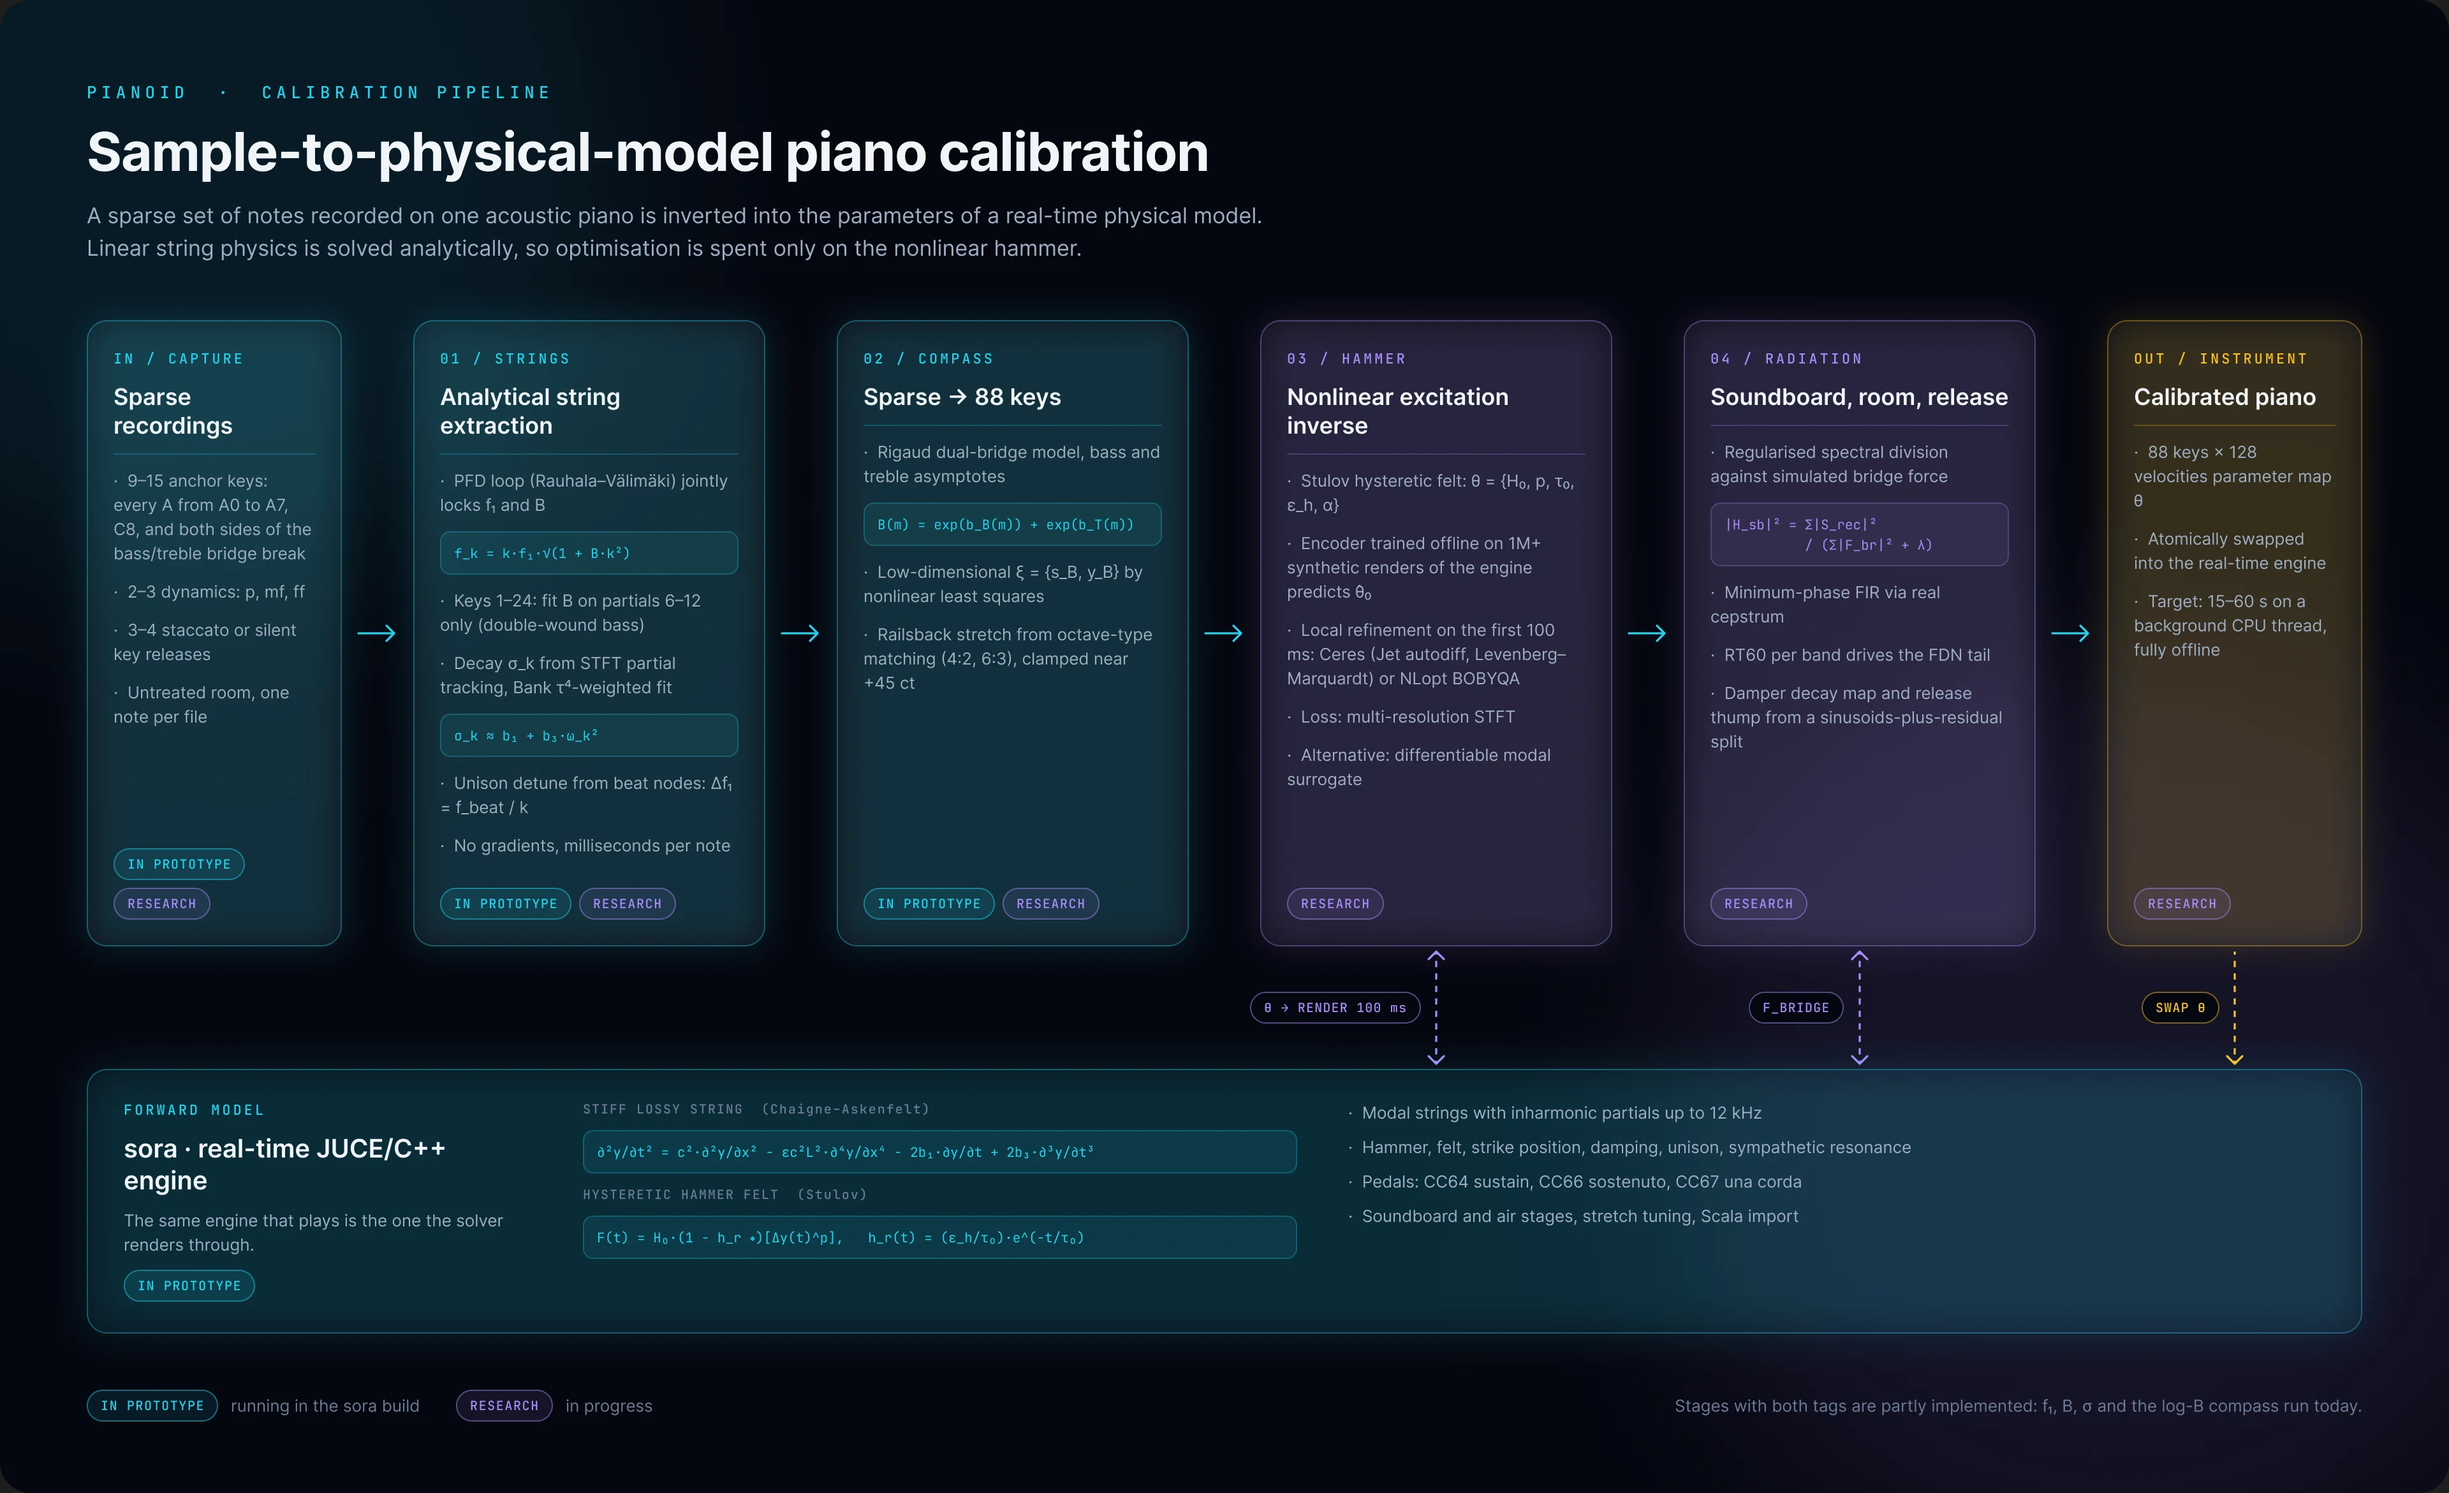
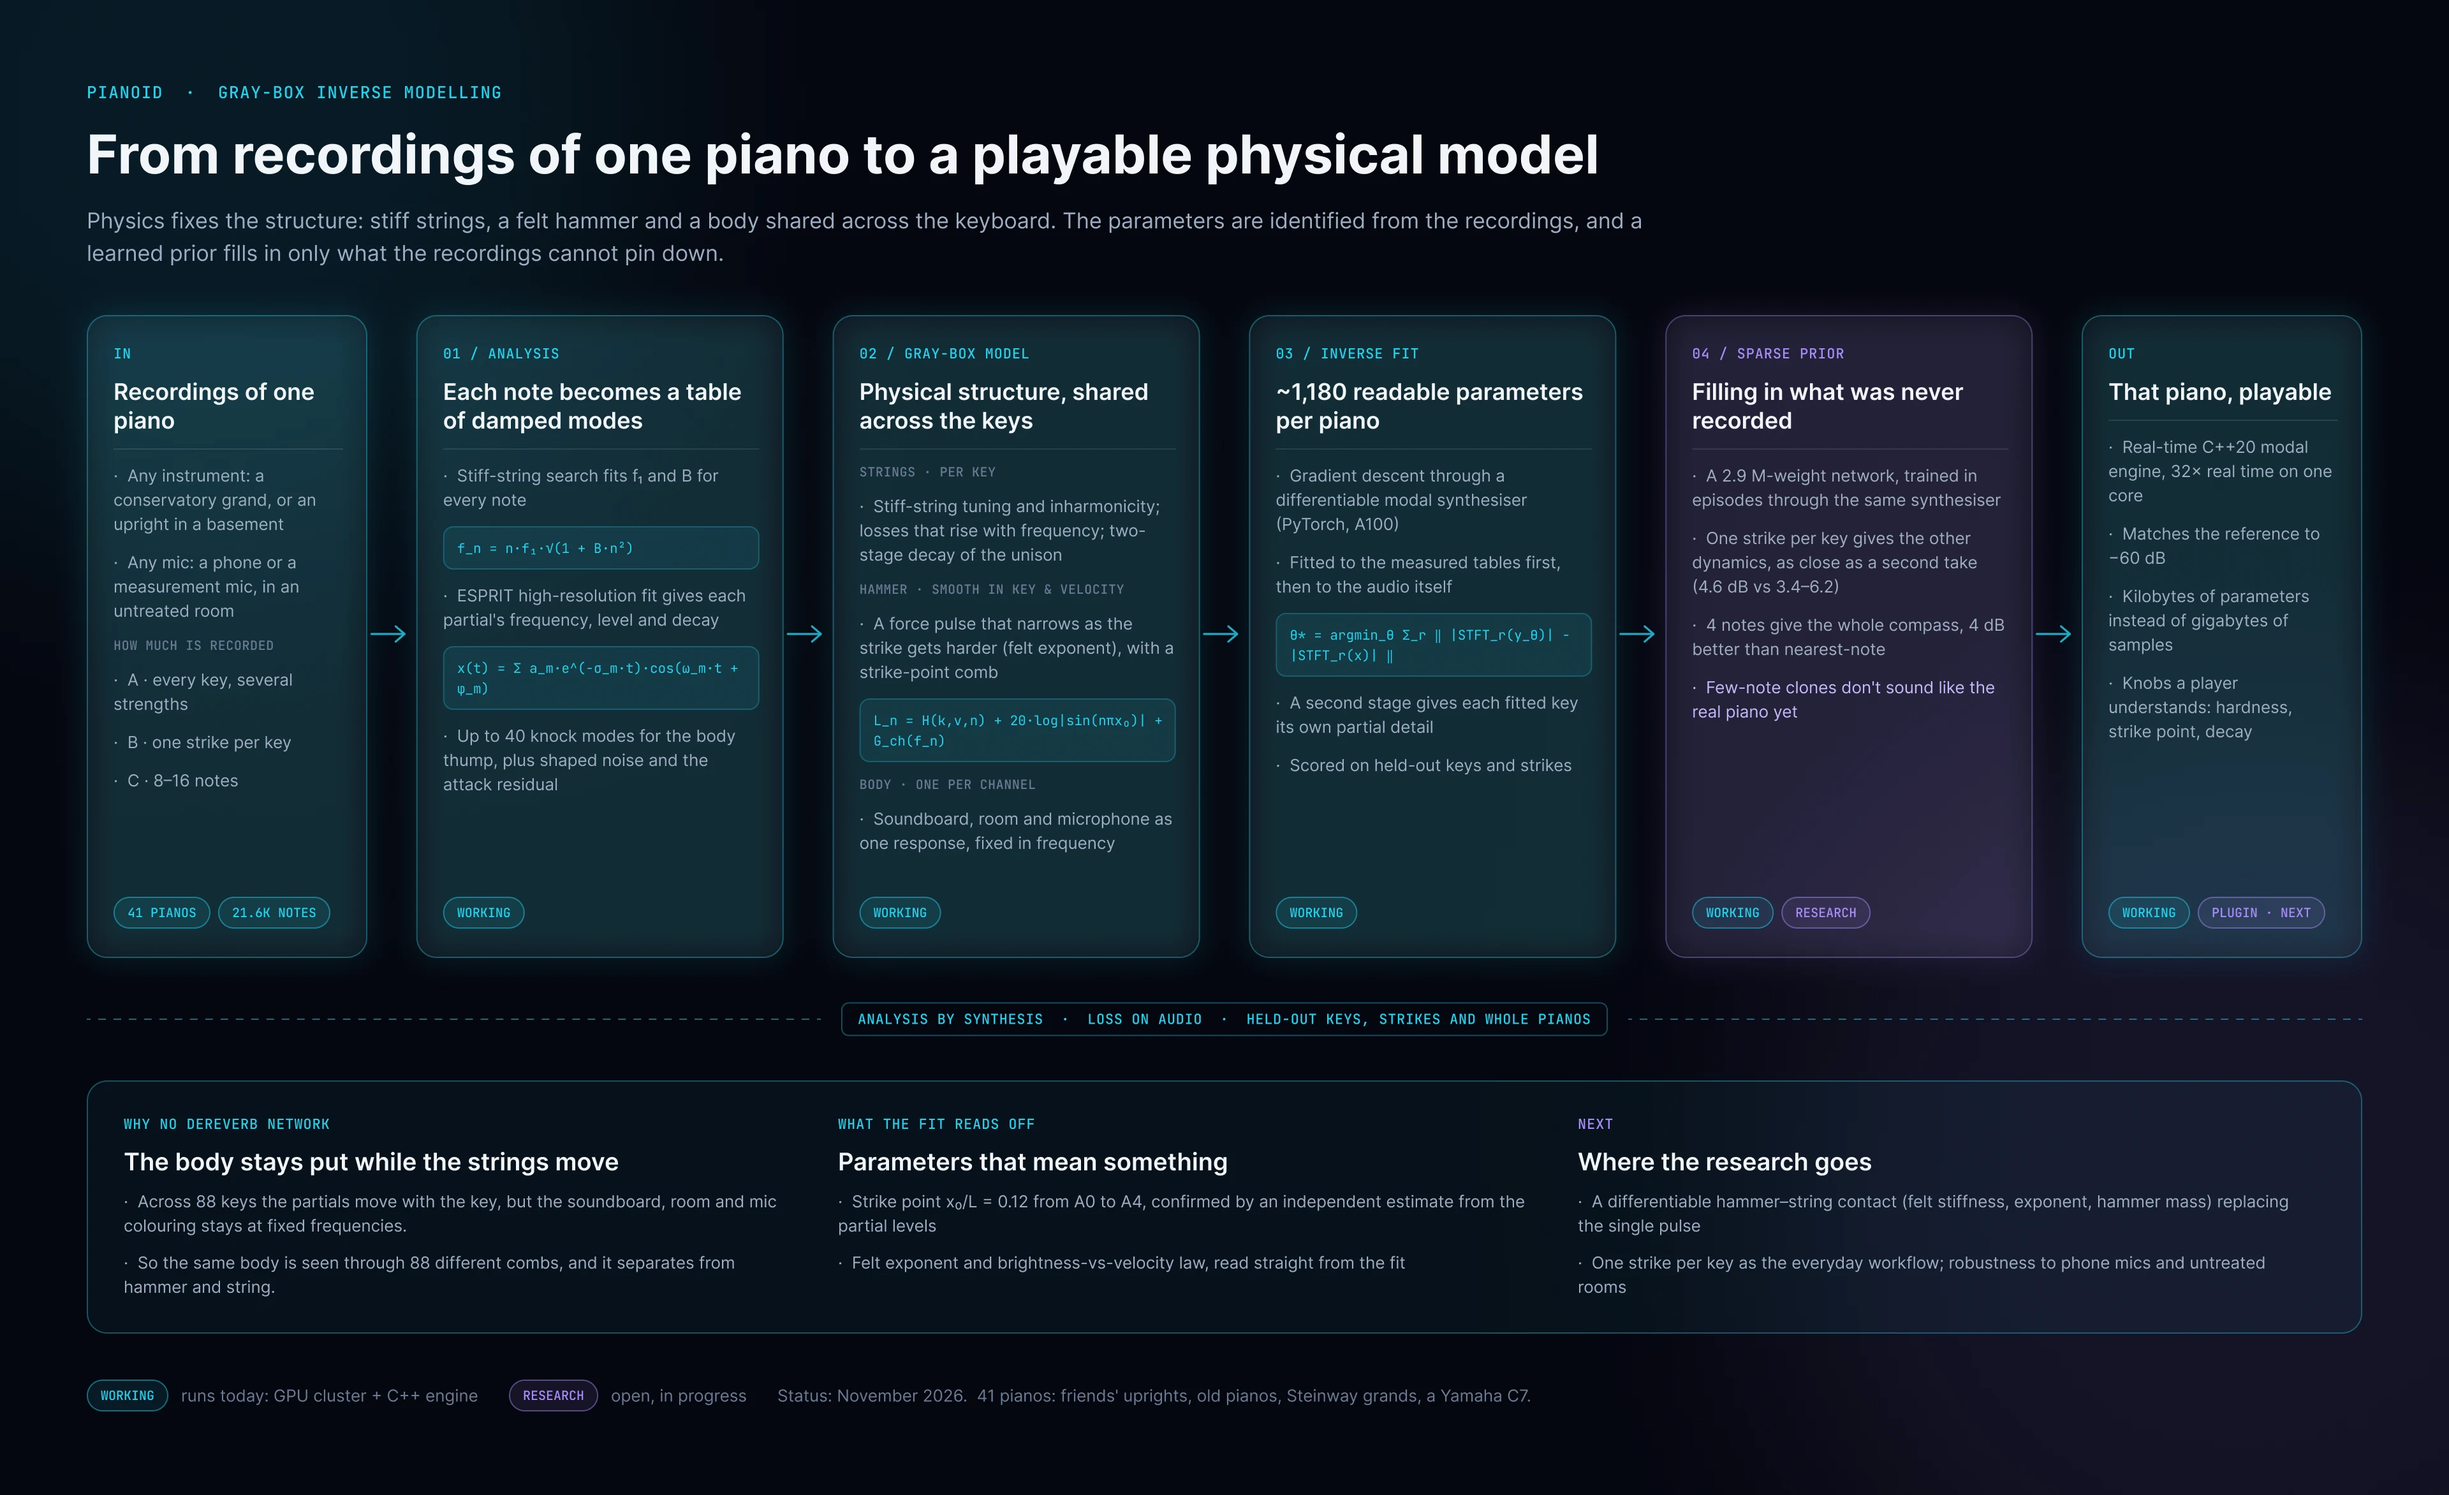
Update website

diff --git a/lib/projects-data.ts b/lib/projects-data.ts
@@ -56,28 +56,28 @@ export const projectsData: Project[] = [
   },
   {
     slug: "pianoid",
-    title: "PianoID: Inverse Physical Modelling of the Piano",
-    shortDescription: "Calibrating a real-time physical piano model to one specific acoustic instrument from a sparse set of recorded notes: analytical string identification, 88-key compass interpolation, and a nonlinear hammer inverse. JUCE/C++ prototype running; research ongoing.",
+    title: "PianoID: Gray-Box Inverse Modelling of the Piano",
+    shortDescription: "Turning recordings of one real piano into a playable physical model of that exact instrument. Physics gives the structure (stiff strings, felt hammer, body), the parameters are identified from the recordings, and a network supplies only what can't be measured. Ongoing research on a GPU cluster.",
     image: "/project-images/ui_screenshots_pianoID/screenshots/01_instrument_perform.png",
-    tags: ["Computational Acoustics", "Inverse Problems", "System Identification", "Physical Modelling", "JUCE / C++", "DSP"],
+    tags: ["Gray-Box Modelling", "Inverse Problems", "System Identification", "Differentiable DSP", "Physical Modelling", "PyTorch", "C++"],
     highlights: [
-      { value: "4", label: "stage inverse" },
-      { value: "88", label: "keys from ~10" },
-      { value: "12 kHz", label: "modal bandwidth" },
+      { value: "41", label: "pianos analysed" },
+      { value: "~1.2k", label: "params / piano" },
+      { value: "32×", label: "real time, 1 core" },
     ],
-    challenge: "Matching a physical piano model to a real instrument is an ill-posed inverse problem. From a handful of notes recorded in an untreated room, you have to recover hundreds of coupled parameters: string stiffness and inharmonicity, frequency-dependent losses, unison detuning, nonlinear hysteretic hammer felt, and soundboard radiation. Black-box neural capture (the way amp modellers work) cannot help, because a piano has no input jack for a test sweep, and a snapshot trained on a few notes cannot extrapolate to 88 keys, 128 velocities, pedals and sympathetic resonance. End-to-end gradient descent through a recursive waveguide or FDTD scheme is not much better: backpropagating through tens of thousands of time steps is unstable, and a fraction-of-a-percent error in f₁ or B misaligns the upper partials so badly that spectral losses stop carrying useful gradients.",
-    role: "I designed and built the real-time JUCE/C++ engine (codename sora), the plugin UI and the analysis tooling, and I'm leading the calibration research.",
-    solution: "The pipeline exploits the piano's physical modularity, so the parameters that can be solved in closed form never go near an optimiser. Stage 1 is analytical: a Partial Frequencies Deviation loop (Rauhala–Välimäki) jointly locks f₁ and B from f_k = k·f₁·√(1 + B·k²), restricted to partials 6–12 on double-wound bass strings. Per-partial decay rates σ_k ≈ b₁ + b₃·ω_k² come from STFT tracking with Bank's τ⁴-weighted regression, and unison detuning is read off the beat nodes. Stage 2 takes 9–15 anchor notes to all 88 keys with Rigaud's dual-bridge model, B(m) = exp(b_B(m)) + exp(b_T(m)), and rebuilds the Railsback stretch curve from octave-type matching. With the partials already aligned, Stage 3 becomes a well-conditioned search over Stulov's hysteretic felt parameters {H₀, p, τ₀, ε_h, α}: an encoder trained offline on synthetic renders of the engine gives the starting point, and Ceres (Jet autodiff, Levenberg–Marquardt) or NLopt refines it against a multi-resolution STFT loss on the first 100 ms. Stage 4 recovers the soundboard, cabinet and microphone response by Tikhonov-regularised spectral division against the simulated bridge force, then fits a minimum-phase FIR, an FDN tail and the damper and release behaviour. The target is a full calibration in under a minute on a background CPU thread, fully offline.",
+    challenge: "Most people with a piano worth keeping (a grandmother's upright in the basement, a conservatory grand) will never sample it properly. That takes days and a studio, and what they actually have is a phone or a measurement mic and a few notes. In principle the recordings are enough. Every note carries the hammer that struck it, the string that rang, and the soundboard, room and microphone it passed through. Getting those back out is an inverse problem, and it gets harder as the recordings get sparser. With every key recorded at several strengths it is mostly measurement. With one strike per key, the missing dynamics have to come from a hammer law. With 8–16 notes, most of the instrument has to come from a prior over what pianos look like. Black-box capture can't do this: it can't extrapolate to keys and dynamics it never heard, and its parameters mean nothing to a player.",
+    role: "Independent research project. I built the analysis pipeline, the differentiable synthesiser, the fitting and training code, the real-time C++ engine and the JUCE prototype, and I run the experiments on a GPU cluster.",
+    solution: "The model is gray-box by construction: the structure is physics, and most of it is shared across the keyboard. Each key has a stiff-string law, f_n = n·f₁·√(1 + B·n²), with frequency-dependent losses and the two-stage decay of a unison. The hammer's force pulse gets brighter as the strike gets harder, and the strike point imposes a comb on the partials. The body has one response per microphone channel, fixed in frequency. That last choice is what makes the inverse tractable without a dereverberation network. Across the keyboard the string partials move with the key while the soundboard, room and microphone colouring stays put, so the same body is seen through 88 different combs and can be separated from hammer and string. The pipeline first analyses every recorded note into a table of damped modes: a stiff-string search for f₁ and B, partial envelopes, high-resolution ESPRIT fits, low-frequency knock modes for the body thump, and a shaped-noise layer. It then fits a per-piano model of about 1,180 readable parameters by gradient descent through a differentiable modal synthesiser, first to the measured tables and then to the audio under a multi-resolution spectral loss. For sparse recordings, a 2.9 M-weight network trained in episodes through the same synthesiser predicts the missing keys and dynamics. Every test holds out keys, strikes or whole pianos, and the score is computed on audio as well as on parameters.",
     keyTechniques: [
-      "Stiff lossy string PDE (Chaigne–Askenfelt) realised as modal synthesis up to 12 kHz",
-      "Joint f₁ / inharmonicity B estimation (PFD algorithm), with a double-wound bass correction",
-      "Frequency-dependent loss fitting, σ_k ≈ b₁ + b₃·ω_k², with perceptually weighted least squares",
-      "Sparse-to-dense compass interpolation (Rigaud dual-bridge model) and Railsback stretch tuning",
-      "Nonlinear hysteretic hammer inverse: neural initialisation plus local Ceres / NLopt refinement",
-      "Regularised spectral deconvolution of soundboard radiation, minimum-phase FIR, FDN reverb",
-      "Thread-safe background calibration in JUCE with an atomic parameter swap into the audio thread",
+      "Gray-box system identification: a physical structure whose parameters are fitted to measured recordings",
+      "Modal analysis of recorded notes: joint f₁ / inharmonicity B search and ESPRIT damped-mode estimation",
+      "Differentiable modal synthesiser (PyTorch) for gradient-based parameter estimation against audio",
+      "Separating excitation from body using key-tracking vs fixed-frequency structure across the keyboard",
+      "Few-shot inverse modelling: episodic training of a network that clones a piano from 4–32 notes",
+      "Held-out evaluation by key, strike and instrument; multi-resolution spectral loss on audio",
+      "Dependency-free real-time C++20 modal engine; GPU training and fitting on an HPC cluster (Slurm, A100)",
     ],
-    results: "Running today in the JUCE prototype: the forward model (strings, hammer, damping, unison, pedals, soundboard and air stages), per-note f₁, B and decay estimation from 3–9 labeled notes, the log-B compass view and stretch tuning with Scala import. In progress: the full Stage 1 loss and beating extraction, the hammer inverse (Stage 3) and soundboard deconvolution (Stage 4). Open questions: identifiability of the felt parameters, model mismatch, and generalising to notes and dynamics left out of the fit.",
+    results: "Status, November 2026. The corpus is 41 pianos and 21,584 analysed notes, from friends' uprights, old pianos, Steinway grands and a Yamaha C7 at a conservatory in Bangalore. Each note's modal table plays back close to its recording. The real-time C++ engine matches the Python reference to −60 dB and renders an 8.5-minute piece (8,124 notes) in 16 s on one core. The fitted gray-box model (~1,180 parameters per piano, played by the engine) matches the learned baselines on keys of the C7 grand it never saw, and its parameters read physically. The strike point comes out at 0.12 of the string length from A0 to A4, which an independent estimate from the measured partial levels confirms, and the felt-hardness exponent can be read straight off the fit. From one recorded strike per key, the network predicts the other dynamics on unseen pianos as closely as a second take of the same note (4.6 dB, against 3.4–6.2 dB between takes). From only 4 notes it beats nearest-note interpolation by 4 dB in the partial tables, but a few notes do not yet sound like the real piano. The negative results set the direction. Training the predictor on audio gave no average gain because it already sits at the take-to-take limit, so the ceiling is the synthesis. And a single smooth hammer pulse fits the brightness but not a physical contact time. Next steps: a differentiable simulated hammer–string contact (felt stiffness, exponent, hammer mass) as the excitation; the one-strike-per-key workflow; robustness to untreated rooms and phone microphones; and a plugin wrapper around the engine.",
     architectureImg: "/project-images/pianoid-workflow.webp",
     gallery: [
       "/project-images/ui_screenshots_pianoID/screenshots/02_instrument_mechanics.png",
